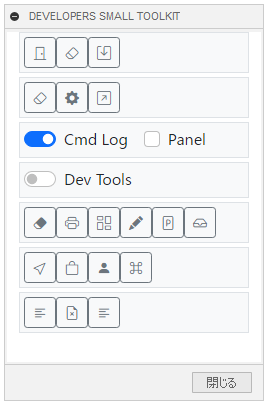
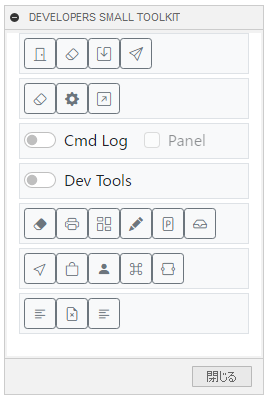
add createLanguageStartup command

Changed region(s): [[0.0301, 0.0, 0.9925, 0.99], [0.9023, 0.81, 0.9323, 0.84]]

diff --git a/Developers_Small_ToolKit/commands/createLanguageStartup/createLanguageStartup.py b/Developers_Small_ToolKit/commands/createLanguageStartup/createLanguageStartup.py
@@ -1,0 +1,110 @@
+# fusion360 API python
+
+import traceback
+import adsk
+import adsk.core as core
+import adsk.fusion as fusion
+import json
+import pathlib
+import os
+
+THIS_DIR = pathlib.Path(__file__).resolve().parent
+BASE_VBS_NAME = 'base.vbs'
+FUSION_KEY = '@fusionpath'
+OPTION_KEY = '@xmlpath'
+
+def entry() -> dict:
+    return {
+        'category': '10_standard',
+        'name': 'LanguageStartupScript',
+        'index': 150,
+        'icon': '<i class="bi bi-send"></i>',
+        'tooltip': 'Create Language Startup Fusion360 Script'
+    }
+
+def run(context):
+    ui = core.UserInterface.cast(None)
+    try:
+        app: core.Application = core.Application.get()
+        ui = app.userInterface
+        des: fusion.Design = app.activeProduct
+        root: fusion.Component = des.rootComponent
+
+        vbsCode = get_vbs_code()
+
+        vbsPath = get_file_path()
+        if len(vbsPath) < 1:
+            return
+
+        write_file(vbsPath, vbsCode)
+
+        ui.messageBox(f'{vbsPath}\nを作成しました。')
+
+    except:
+        if ui:
+            ui.messageBox('Failed:\n{}'.format(traceback.format_exc()))
+
+
+def write_file(
+    path: str,
+    txt: str,
+) -> None:
+
+    with open(path, mode = "w", encoding="shift_jis") as f:
+        f.write(txt)
+
+
+def get_vbs_code() -> str:
+
+    vbsPath = str(THIS_DIR / BASE_VBS_NAME)
+    with open(vbsPath, encoding="shift_jis") as f:
+        vbsCode = f.read()
+
+    vbsCode = vbsCode.replace(
+        FUSION_KEY, get_fusion_path()
+        ).replace(
+            OPTION_KEY, get_options_path()
+        )
+
+    return vbsCode
+
+
+def get_fusion_path() -> str:
+
+    app: core.Application = core.Application.get()
+
+    pathDict = json.loads(app.executeTextCommand(u'paths.get'))
+    # return str(pathlib.Path(pathDict["rootDirectory"]) / "Fusion360.exe")
+
+    production = pathlib.Path(pathDict["rootDirectory"]).parent
+    launchers = list(production.glob('*/FusionLauncher.exe'))
+    launcher = min(launchers, key=lambda x: len(list(x.parent.iterdir())))
+
+    return str(launcher)
+
+
+def get_options_path() -> str:
+
+    app: core.Application = core.Application.get()
+
+    pathDict = json.loads(app.executeTextCommand(u'paths.get'))
+    return str(pathlib.Path(pathDict["bootstrapOptionDirectory"]) / "NMachineSpecificOptions.xml")
+
+
+def get_file_path() -> str:
+
+    app: core.Application = core.Application.get()
+    ui: core.UserInterface = app.userInterface
+
+    ver = app.version.replace('.', '_')
+
+    dlg: core.FileDialog = ui.createFileDialog()
+    dlg.title = '起動スクリプトの作成'
+    dlg.isMultiSelectEnabled = False
+    dlg.filter = 'VBScript(*.vbs)'
+    dlg.initialDirectory = os.path.expanduser('~/Desktop')
+    dlg.initialFilename = f'Language Startup Fusion360 Ver{ver}'
+    if dlg.showSave() != adsk.core.DialogResults.DialogOK :
+        return ''
+
+    return dlg.filename

diff --git a/README.md b/README.md
@@ -33,6 +33,7 @@
 - Close all docs: 開かれているドキュメントで変更の無いものは先に閉じ、残り全て**保存せず**閉じます。
 - Remove Custom Graphics: 全てのカスタムグラフィックスを削除します。
 - Export TextCommands List: TextCommands(txt)のコマンドリストをファイルに保存します。
+- Create Language Startup Fusion360 Script: 日本語・英語を指定して起動するためのスクリプトファイルを作成します。
 ---
 - Open CustomPost Folder: カスタムされた製造ポストファイル(cps)のフォルダーを開きます。
 - Open InstallPost Folder: インストールされた製造ポストファイル(cps)のフォルダーを開きます。

diff --git a/CHANGELOG.md b/CHANGELOG.md
@@ -1,5 +1,8 @@
 # Change of Fusion360 Developers Small ToolKit
 
+## 0.1.3
++ Create Language Startup Fusion360 Script コマンドを追加
+
 ## 0.1.2
 + exportTxtCmdLst コマンド修正
 
